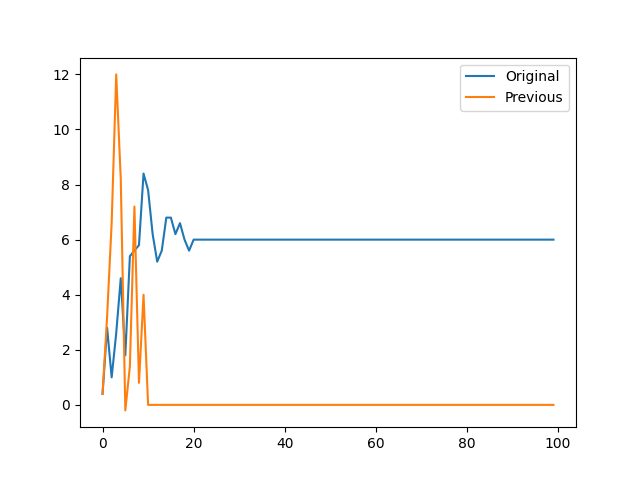
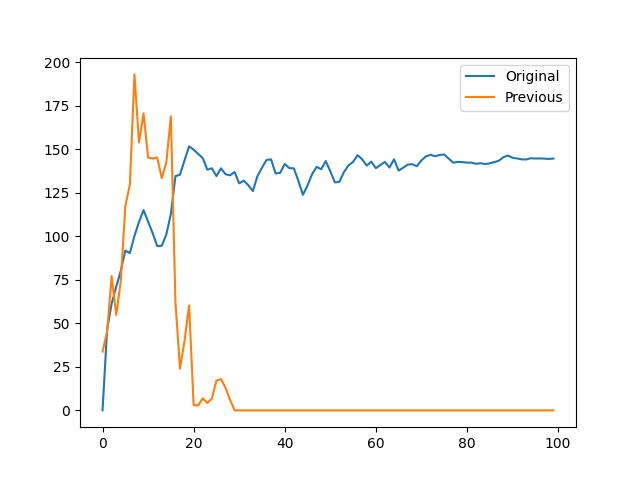
011-3 Update

diff --git a/011/011-3.py b/011/011-3.py
@@ -33,7 +33,7 @@ num_generations = 100
 board_states = [line.strip('\n') for line in open('011/board_states.txt', 'r').readlines()]
 ttc_cell_chromosomes = [line.strip('\n') for line in open('011/ttc_cell_chromosomes.txt', 'r').readlines()]
 
-GA = GeneticAlgorithm()
+GA = GeneticAlgorithm(board_states)
 GA.read_cells(ttc_cell_chromosomes)
 
 for generation in range(num_generations):
